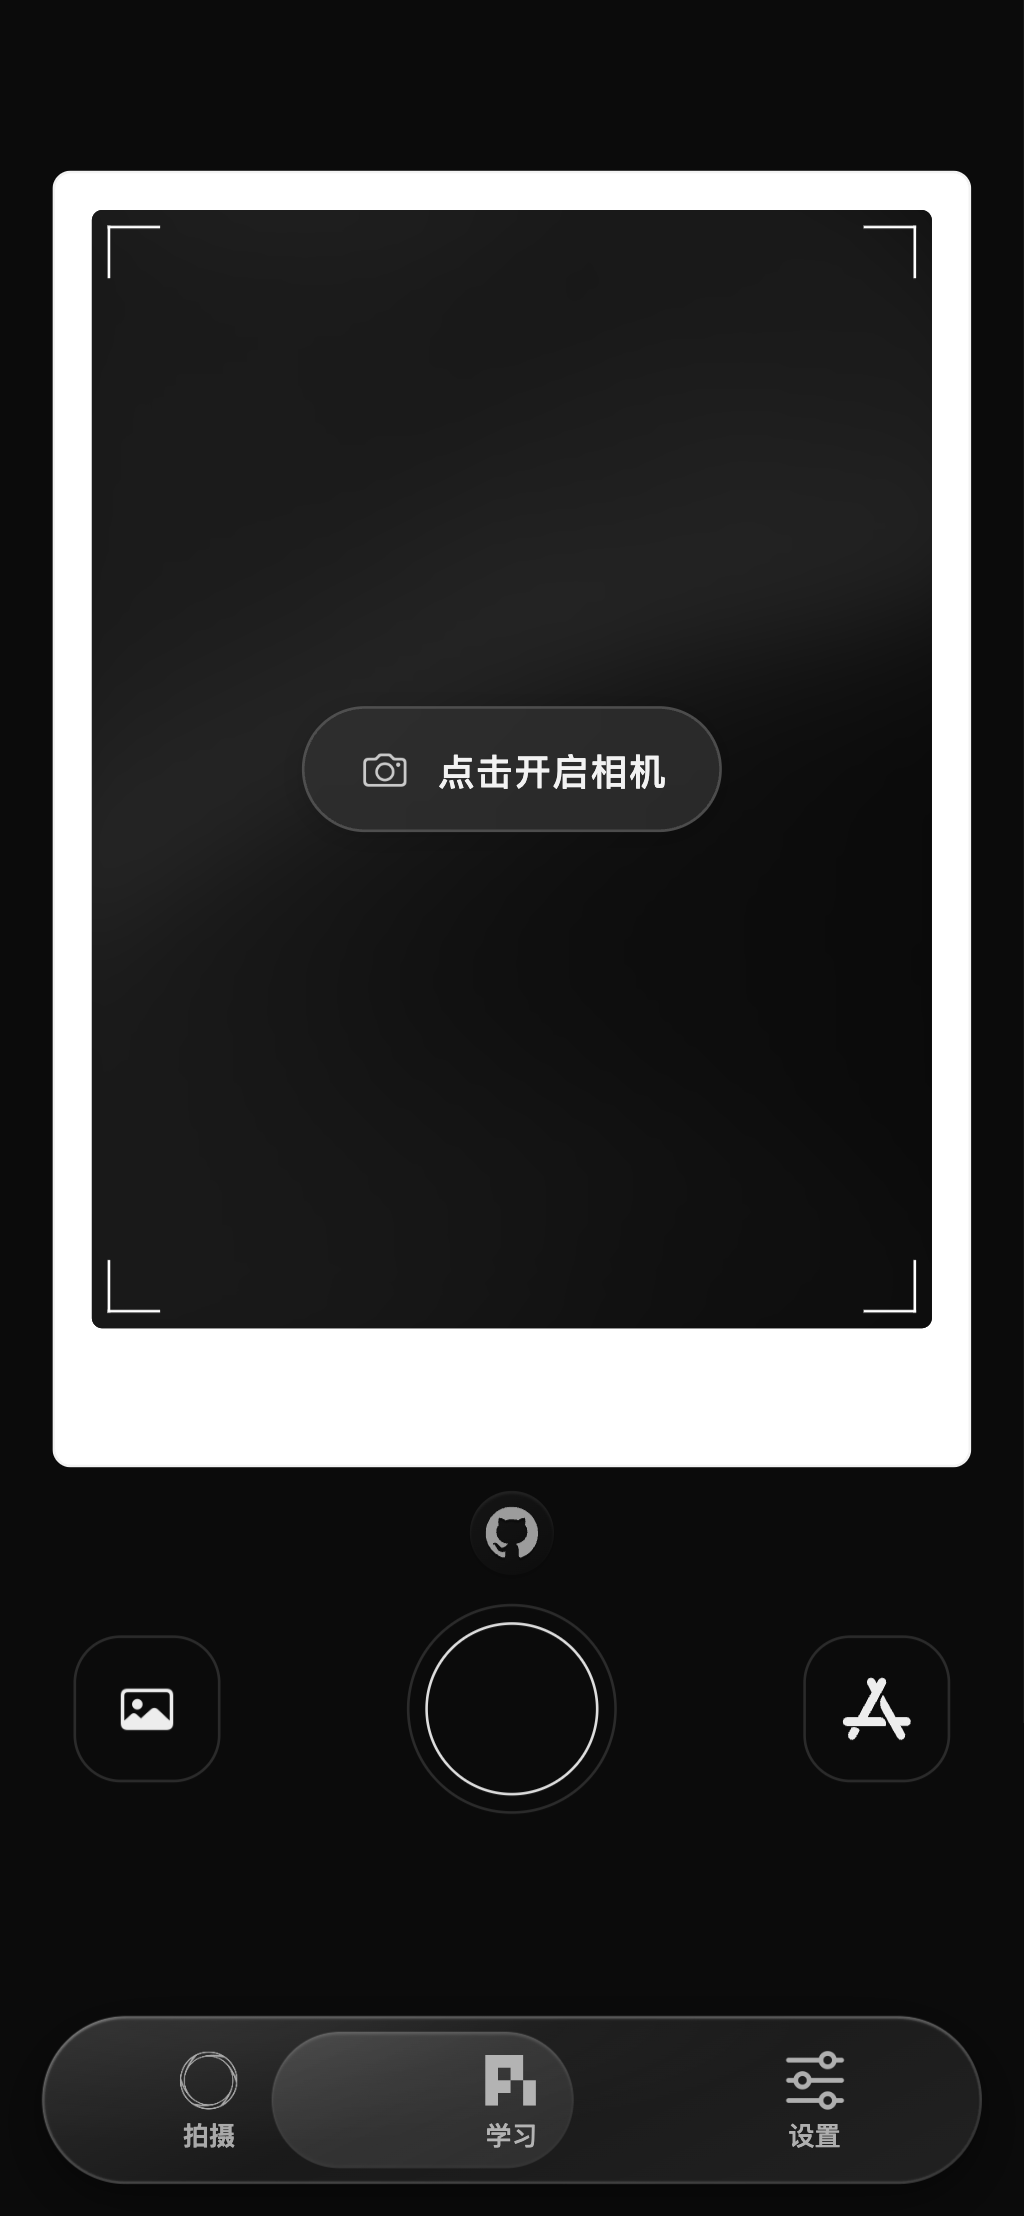
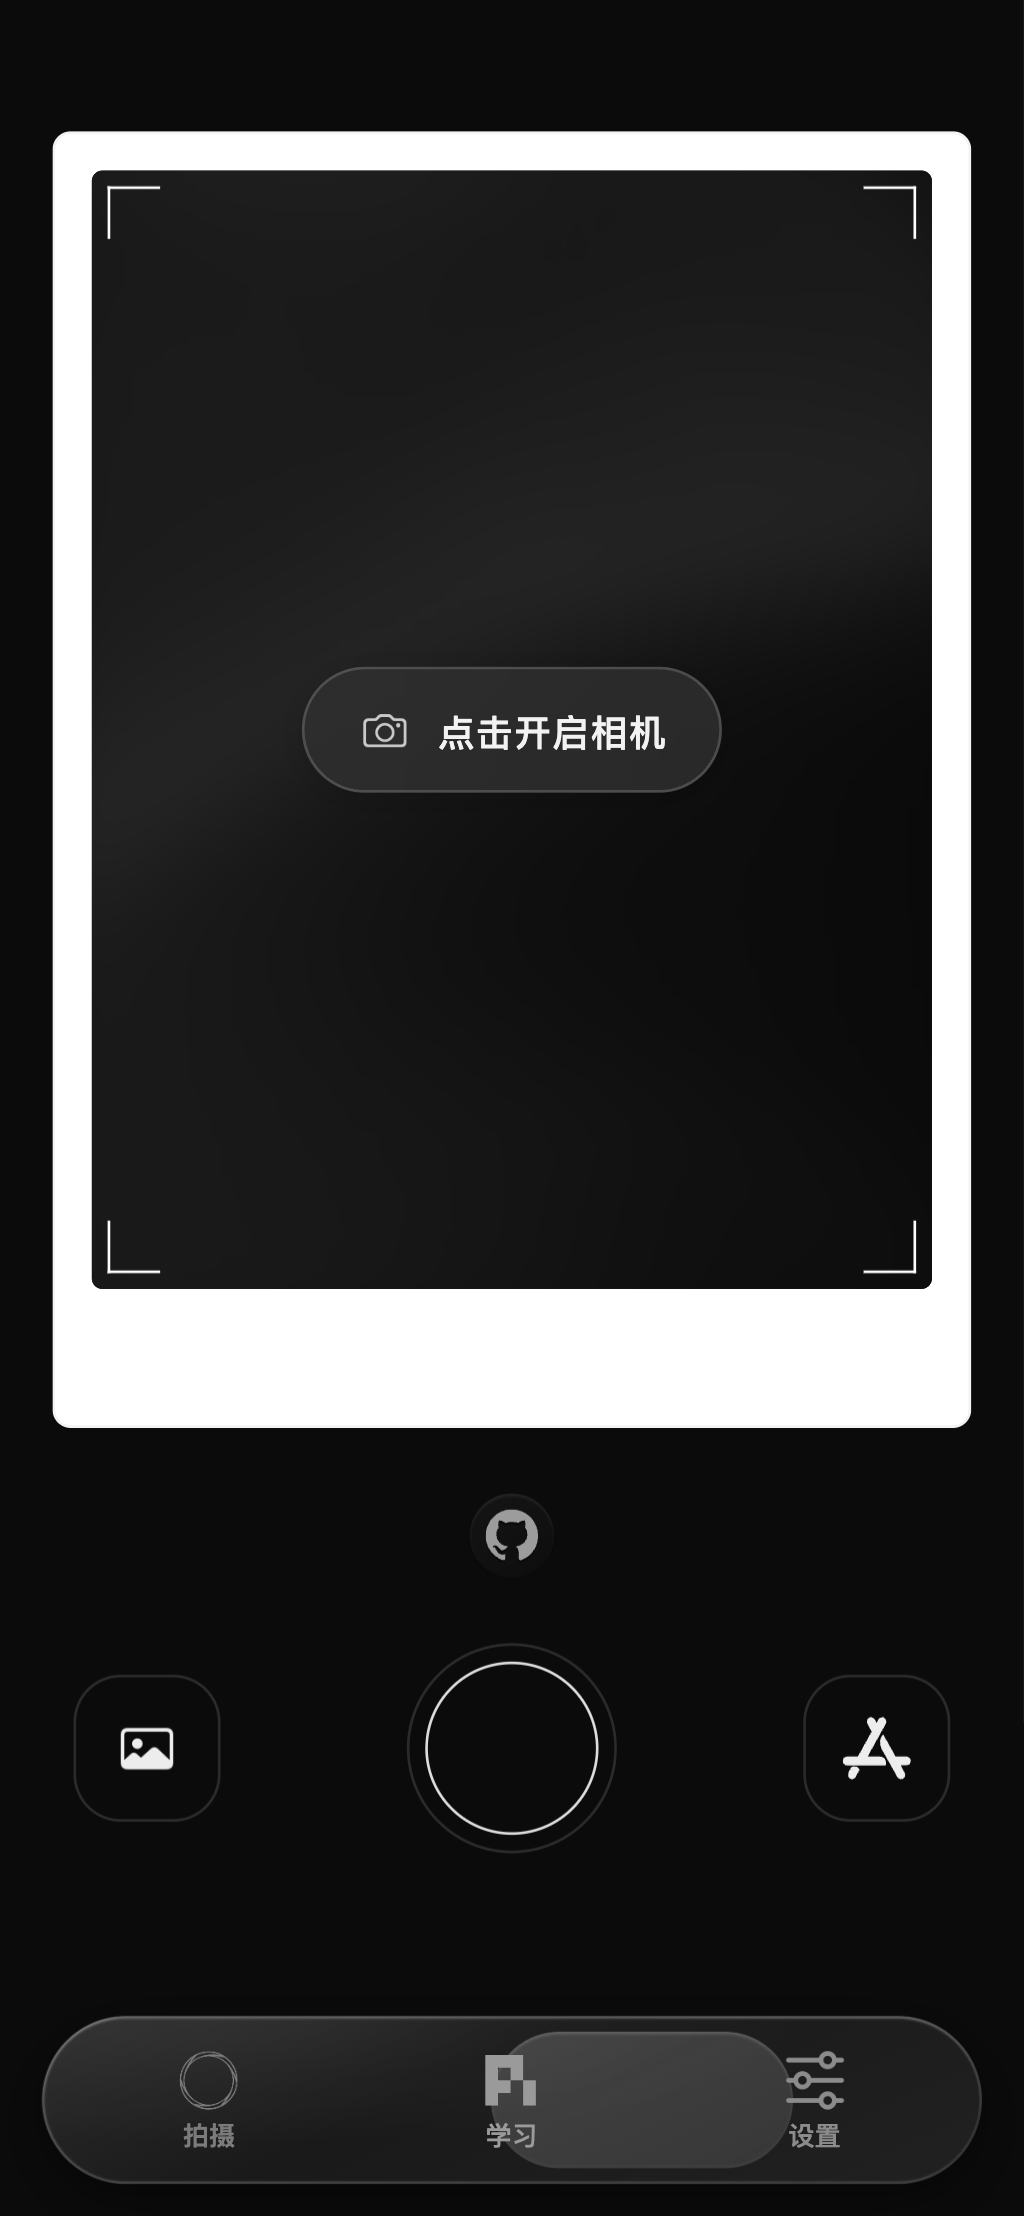
Give the camera GitHub badge breathing room above the shutter

diff --git a/tests/browser/alignment-extension.spec.ts b/tests/browser/alignment-extension.spec.ts
@@ -6,7 +6,7 @@ import {createHash} from 'node:crypto';
 test('camera GitHub badge is centered above shutter and opens the repository separately',async({page,context},info)=>{
  await page.goto('/piclex-web/#/capture');const badge=page.getByRole('link',{name:'GitHub 查看 Web 源码（新标签页）',exact:true});
  await expect(badge).toHaveAttribute('target','_blank');await expect(badge).toHaveAttribute('rel','noopener noreferrer');
- for(const [width,height] of [[390,844],[320,568],[844,390],[1440,1000]]){await page.setViewportSize({width,height});const b=(await badge.boundingBox())!,s=(await page.locator('.shutter').boundingBox())!,paper=(await page.locator('.camera-paper').boundingBox())!;expect(b.width).toBeGreaterThanOrEqual(44);expect(b.height).toBeGreaterThanOrEqual(44);expect(Math.abs(b.x+b.width/2-s.x-s.width/2)).toBeLessThan(1);expect(b.y+b.height).toBeLessThanOrEqual(s.y);expect(b.y).toBeGreaterThanOrEqual(paper.y+paper.height);expect(await page.evaluate(()=>document.documentElement.scrollWidth<=innerWidth)).toBe(true);}
+ for(const [width,height] of [[390,844],[320,568],[844,390],[1440,1000]]){await page.setViewportSize({width,height});const b=(await badge.boundingBox())!,s=(await page.locator('.shutter').boundingBox())!,paper=(await page.locator('.camera-paper').boundingBox())!;expect(b.width).toBeGreaterThanOrEqual(44);expect(b.height).toBeGreaterThanOrEqual(44);expect(Math.abs(b.x+b.width/2-s.x-s.width/2)).toBeLessThan(1);expect(s.y-b.y-b.height).toBeGreaterThanOrEqual(18);expect(b.y-paper.y-paper.height).toBeGreaterThanOrEqual(18);expect(s.y+s.height).toBeLessThanOrEqual((await page.getByRole('navigation',{name:'底部导航'}).boundingBox())!.y);expect(await page.evaluate(()=>document.documentElement.scrollWidth<=innerWidth)).toBe(true);}
  await page.setViewportSize({width:390,height:844});await expect.poll(()=>page.locator('.camera-gold-sand').evaluate((n:HTMLImageElement)=>n.complete&&n.naturalWidth>0)).toBe(true);await page.screenshot({path:info.outputPath('camera-github-light.png')});
  await context.route('https://github.com/zhaoolee/piclex-web',route=>route.fulfill({body:'GitHub repository'}));const url=page.url(),popupPromise=page.waitForEvent('popup');await badge.click();const popup=await popupPromise;await popup.waitForLoadState();expect(popup.url()).toBe('https://github.com/zhaoolee/piclex-web');expect(await popup.evaluate(()=>window.opener===null)).toBe(true);await popup.close();expect(page.url()).toBe(url);
  await page.goto('/piclex-web/#/settings/appearance');await page.getByRole('button',{name:'深色',exact:true}).click();await page.getByRole('button',{name:'拍摄',exact:true}).click();await page.screenshot({path:info.outputPath('camera-github-dark.png')});

diff --git a/apps/public/src/capture.css b/apps/public/src/capture.css
@@ -109,13 +109,13 @@ body[data-page=capture]:has(.capture-result-page){background:color-mix(in srgb,v
 .capture-photo-label strong,.capture-photo-label span{overflow:visible;text-overflow:clip;max-width:none}
 
 /* A quiet engraved source badge in the native zoom control's position. */
-.capture-page .camera-paper{margin-bottom:52px;--photo-width:min(calc(100vw - 68px),calc((100dvh - 330px)*.75),364px)}
+.capture-page .camera-paper{margin-bottom:82px;--photo-width:min(calc(100vw - 68px),calc((100dvh - 360px)*.75),364px)}
 .capture-page .capture-controls{position:relative}
-.camera-github{position:absolute;top:-49px;left:50%;transform:translateX(-50%);width:44px;height:44px;display:grid;place-items:center;color:#6c6c6c;border-radius:50%;isolation:isolate;transition:color .18s ease}
+.camera-github{position:absolute;top:-63px;left:50%;transform:translateX(-50%);width:44px;height:44px;display:grid;place-items:center;color:#6c6c6c;border-radius:50%;isolation:isolate;transition:color .18s ease}
 .camera-github::before{content:"";position:absolute;inset:6px;border-radius:50%;background:linear-gradient(145deg,#ffffff80,#ffffff05);box-shadow:inset 0 1px 1px #ffffffb0,0 1px 2px #0000000c;z-index:-1}
 .camera-github svg{width:20px;height:20px;filter:drop-shadow(0 1px 0 #ffffffa0)}
 @media(hover:hover){.camera-github:hover{color:#202020}.camera-github:hover::before{box-shadow:inset 0 1px 1px #fff,0 2px 5px #00000018}}
 .camera-github:active::before{box-shadow:inset 0 1px 3px #00000024}
 :root[data-theme=dark] .camera-github{color:#9c9c9c}:root[data-theme=dark] .camera-github::before{background:linear-gradient(145deg,#ffffff0a,#ffffff02);box-shadow:inset 0 1px 1px #ffffff12,0 1px 2px #00000028}:root[data-theme=dark] .camera-github svg{filter:drop-shadow(0 1px 0 #00000060)}
-@media(max-height:600px){.capture-page .camera-paper{margin-bottom:52px;--photo-width:min(calc(100vw - 68px),calc((100dvh - 276px)*.75),364px)}}
+@media(max-height:600px){.capture-page .camera-paper{margin-bottom:82px;--photo-width:min(calc(100vw - 68px),calc((100dvh - 326px)*.75),364px)}}
 @media(prefers-reduced-motion:reduce){.camera-github{transition:none}}

diff --git a/memory/2026-11-04.md b/memory/2026-11-04.md
@@ -318,3 +318,5 @@
 - 执行：沿用本轮TypeSafe脱敏Choice选Codex；简单按钮先交Pi，沙箱锁失败及外部重试Connection error后当前会话接手。自动审批曾拒绝新增测试写模拟等级账户，已改成不写等级数据的隔离临时浏览器检查。
 
 - 发版回归补记：出片期间识别页现设为inert，避免覆盖层后方控件被键盘/辅助技术访问；歌曲测试只追踪library原音频，避免把新键盘MP3计入。上一轮二维码封面CI在Linux使用/private/tmp导致失败，现改为Playwright测试专属outputPath，保留PNG签名/尺寸及不请求第三方URL的断言。
+
+- 用户追加指出GitHub徽章上下拥挤：拍立得与快门行间距52→82px，44px点击区上下各约19px，常规手机拍立得上移/快门行下移，短屏单独约束取景器；320×568、390×844、844×390、1440×1000均无图标挤压且快门在底栏之上。最终间距和可移植封面导出5项全过。整站195项初跑183通过/10失败/2跳过，10项均定位修复；所有受影响测试79项复核全过。代码与测试已提交过两轮，本次最新间距尚待推送/部署。
